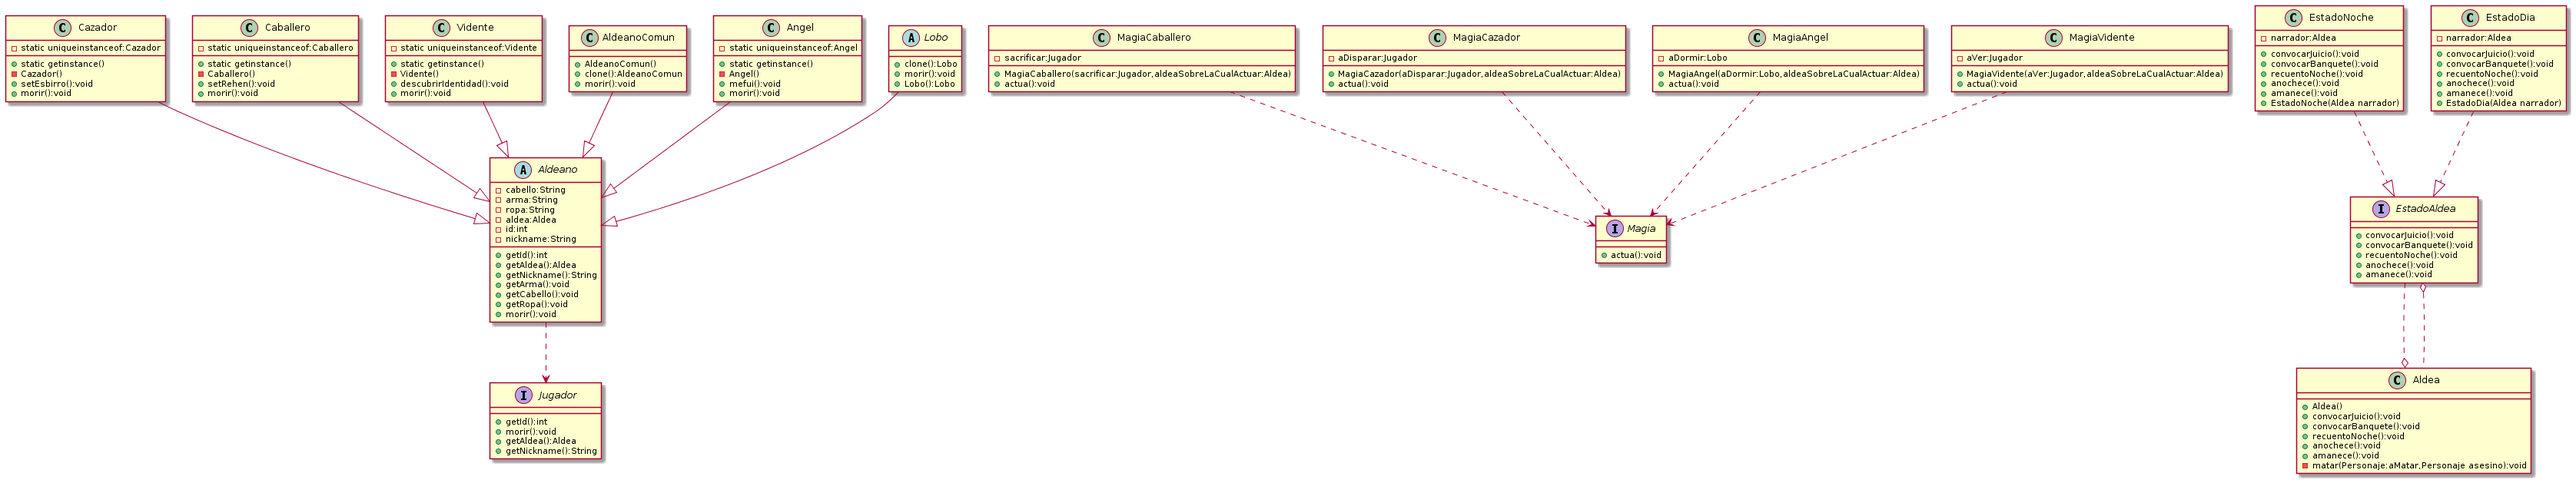
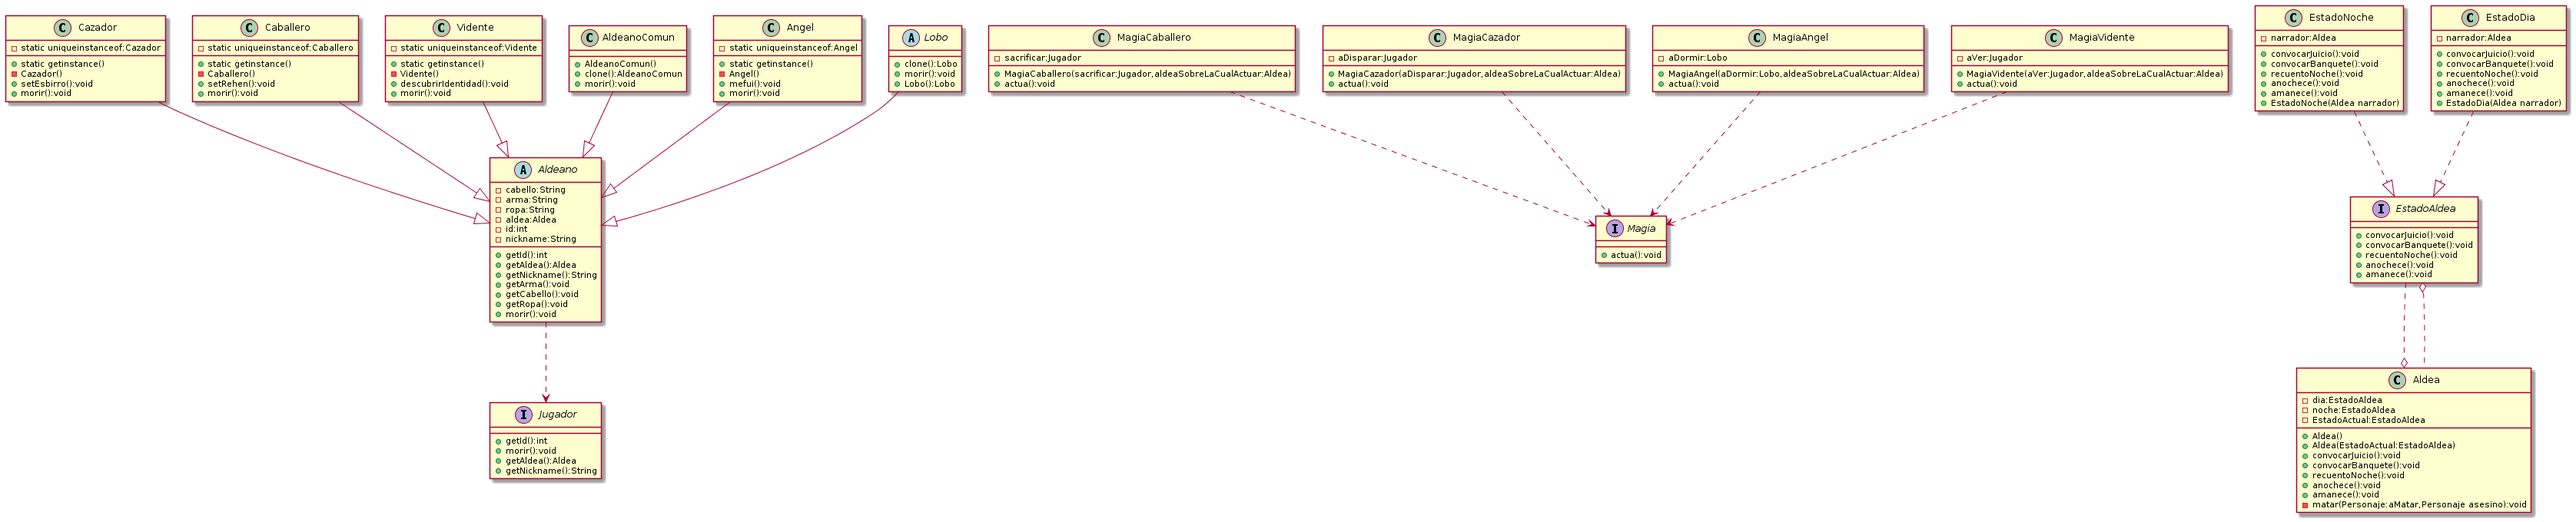
Más funcionalidad a State y modificaciones a Aldea y Aldeano.

diff --git a/Aldea.java b/Aldea.java
@@ -1,11 +1,26 @@
 
 public class Aldea implements EstadoAldea{
 
+    private EstadoAldea noche;
+    private EstadoAldea dia;
+
+    private EstadoAldea EstadoActual;
+
     /**
     *Constructor de la Clase.
     */
     public Aldea(){
+        dia=new EstadoDia(this);
+        noche=new EstadoNoche(this);
 
+        EstadoActual=dia;
+    }
+
+    public Aldea(EstadoAldea EstadoActual){
+        this.EstadoActual=EstadoActual;
+
+        dia=new EstadoDia(this);
+        noche= new EstadoNoche(this);
     }
 
 
@@ -41,6 +56,6 @@ public class Aldea implements EstadoAldea{
     */
     public void matar(Aldeano aMatar,Aldeano asesino){
         aMatar.morir();
-        System.out.println(aMatar.getNickname()+" fue asesinado por "+asesino.getNickname()+"con "+asesino.getArma());
+        System.out.println(aMatar.getNickname()+" fue asesinado por "+asesino.getNickname()+" con "+asesino.getArma());
     }
 }

diff --git a/main.java b/main.java
@@ -2,11 +2,15 @@
 public class main{
     public static void main(String[] args){
 
+        Aldea primera=new Aldea();
         Aldeano uno=new AldeanoComun();
         Aldeano moni=Vidente.getinstance();
         Aldeano dos=Cazador.getinstance();
         Aldeano tres=Caballero.getinstance();
         Aldeano cuatro=new Lobo();
+        Aldeano cinco=Angel.getinstance();
+
+        Magia magia=new MagiaCazador(tres,primera);
 
         uno.getArma();
         moni.getRopa();
@@ -18,6 +22,10 @@ public class main{
         dos.getCabello();
         tres.getArma();
         cuatro.getArma();
+
+        primera.matar(dos,cuatro);
+
+
 
     }
 }

diff --git a/Aldeano.java b/Aldeano.java
@@ -29,22 +29,25 @@ public abstract class Aldeano implements Jugador{
     /**
     *Metodo para obtener su ropa.
     */
-    public void getRopa(){
+    public String getRopa(){
         System.out.println(this.ropa);
+        return this.ropa;
     }
 
     /**
     *Metodo para obtener su arma.
     */
-    public void getArma(){
+    public String getArma(){
         System.out.println(this.arma);
+        return this.arma;
     }
 
     /**
     *Metodo para obtener el cabello.
     */
-    public void getCabello(){
+    public String getCabello(){
         System.out.println(this.cabello);
+        return this.cabello;
     }
 
 }
